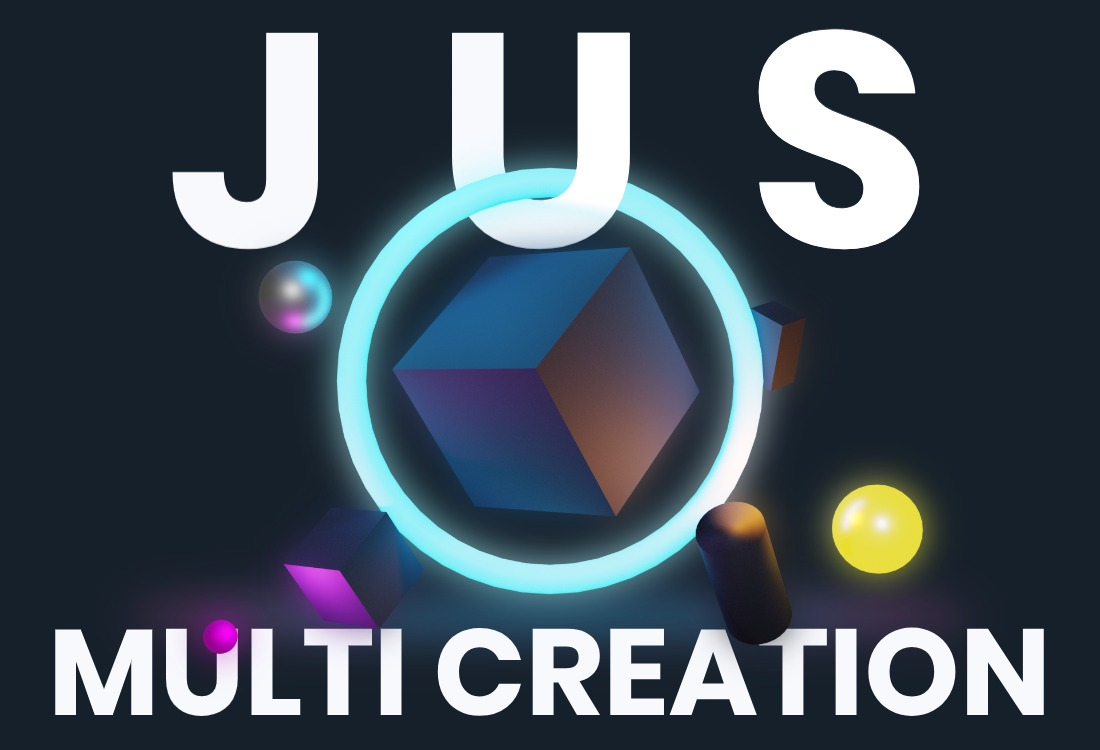
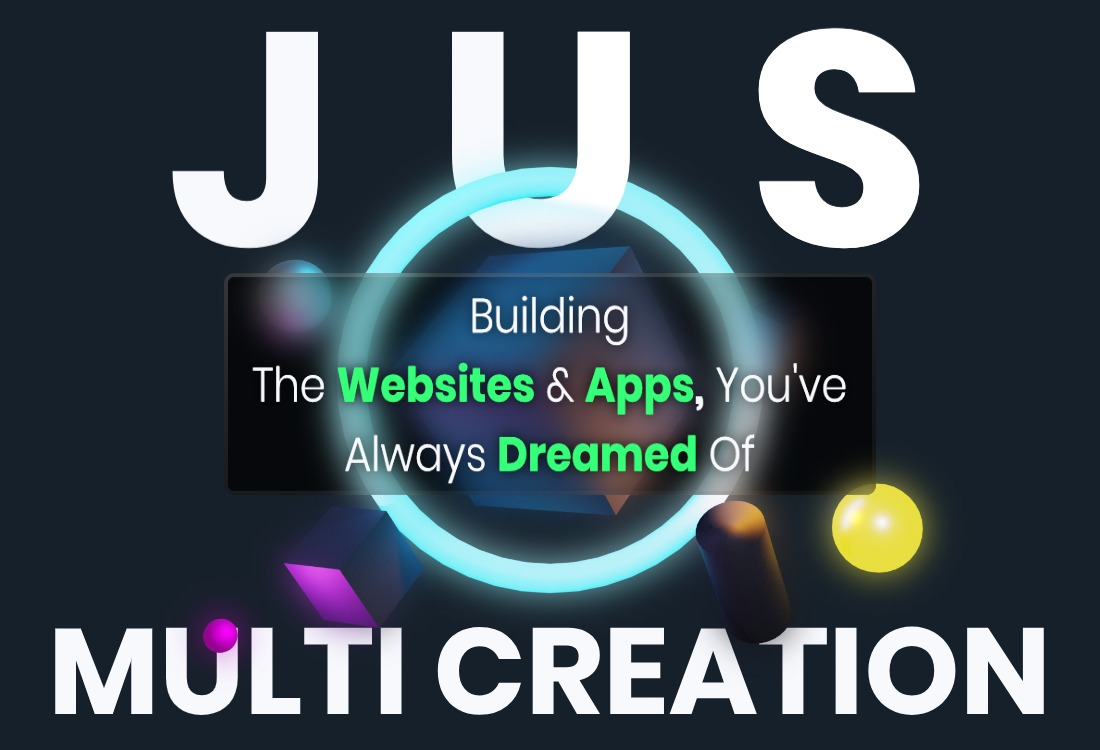
next publish

diff --git a/components/Hero.vue b/components/Hero.vue
@@ -7,6 +7,18 @@
         solving your problems by making a product
         that will exceed your expectations so far</p> -->
 
+    <div class="info-bar">
+          <div>
+            <h2>
+              Website, Software & Mobile App
+            </h2>
+
+            <p>
+              We pride ourselves on guiding our clients to success - and creating intelligent solutions that minimize risks and maximize rewards.
+            </p>
+          </div>
+    </div>
+    
         <p class="subtitle">
             We are a forward thinking Gatineau web design company that produces
             beautiful optimized websites tailored to our clients individual business.
@@ -93,7 +105,7 @@
 
         <img class="proc-image" src="~/assets/jus_proc.jpg" alt="banner">
 
-        <a href="/services" class="o-button"><img src="~/assets/icons/email.svg" alt=">" width="32"> <p>| Lets Get Started</p></a>
+        <a href="/services" class="o-button"><img src="~/assets/icons/email.svg" alt=">" width="32"> Lets Get Started</a>
         <div class="space"></div>
         <h1>Our Latest Project</h1>
 
@@ -137,6 +149,10 @@ export default {
     margin-top: 20px;
     border: 2px solid #F6F873;
     padding: 10px 15px;
+}
+
+.o-button img{
+    margin: 5px;
 }
 
 .image-card{

diff --git a/components/Navbar.vue b/components/Navbar.vue
@@ -1,5 +1,6 @@
 <template>
   <div class="navbar">
+
       <div class="navbar-content">
           <img src="~/assets/jus-logo.svg" alt="logo" width=64 v-on:click="goto('/')" class="logo">
           <div class="nav-links">
@@ -29,6 +30,9 @@
             <a href="#">Mobile App Development</a>
         </div>
       </div>
+
+
+
   </div>
 </template>
 
@@ -61,6 +65,10 @@ export default {
 .info-bar p{
     color: #A2B8D2;
     font-size: large;
+}
+
+.info-bar h2{
+    color: white;
 }
 .mobile-bar{
     background-color: #0f171f;
